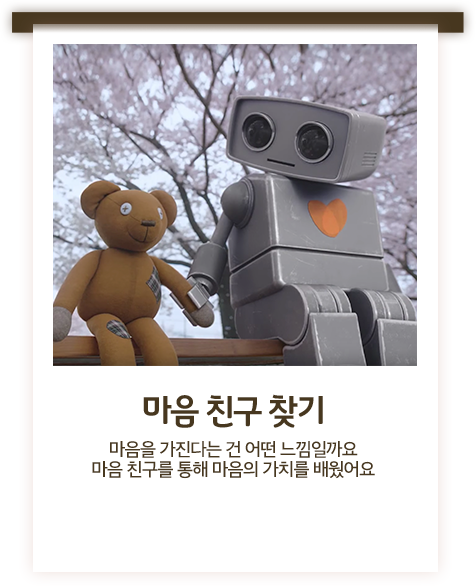
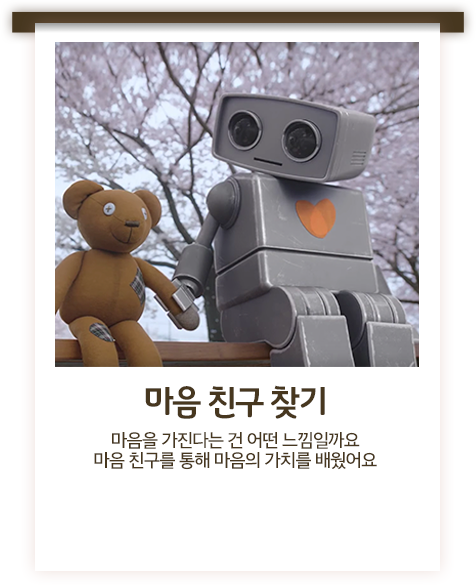
44445555

Changed region(s): [[0.0588, 0.0307, 0.9412, 0.8279]]

diff --git a/css/main.css b/css/main.css
@@ -635,7 +635,7 @@ body {
 	margin-top: 49px;
 }
 .section4-wrap .inner .list {
-	width: 965px;
+	width: 966px;
 	/* height: 360px; */
 	margin: 0 auto;
 	margin-top: 72px;
